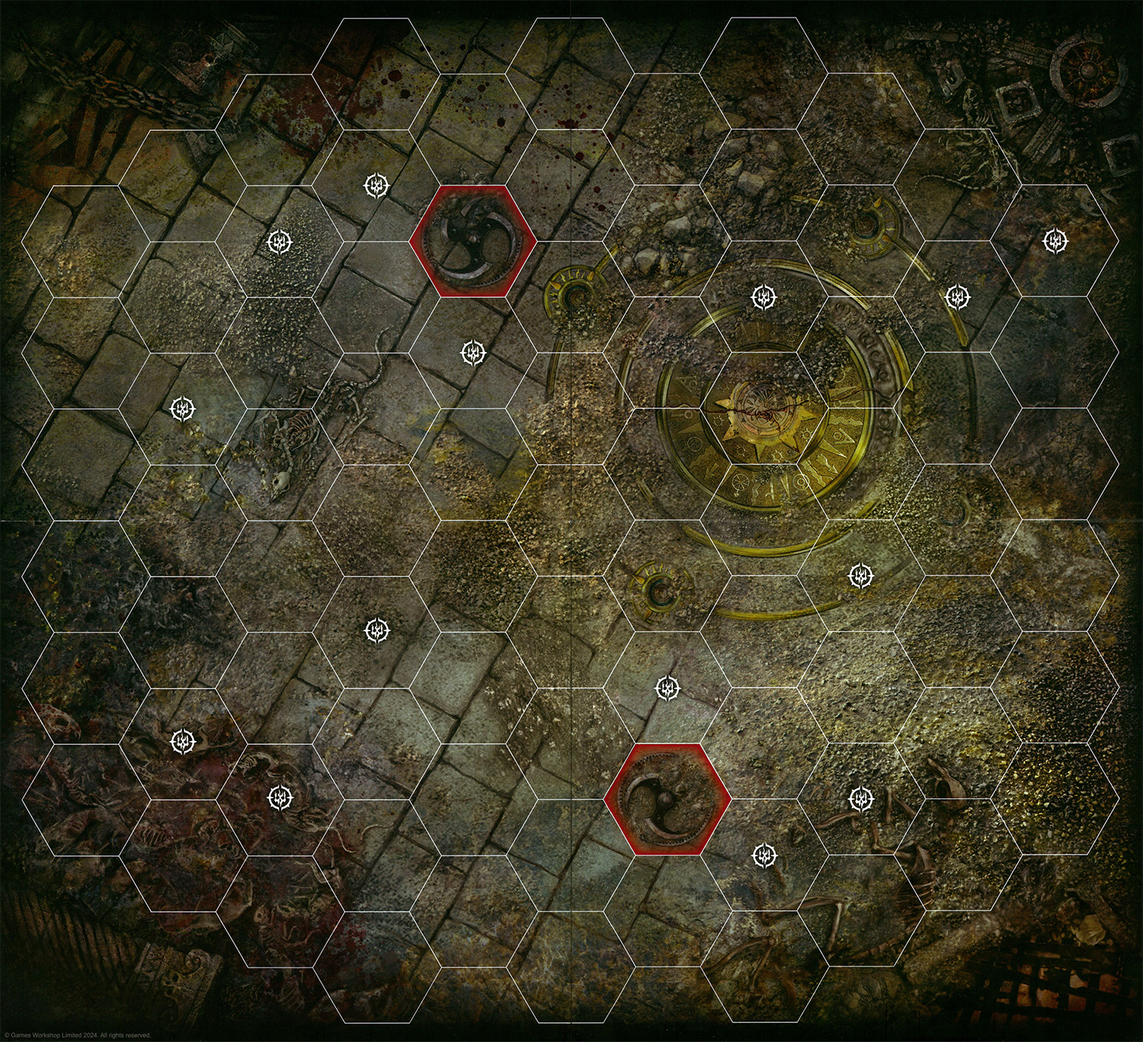
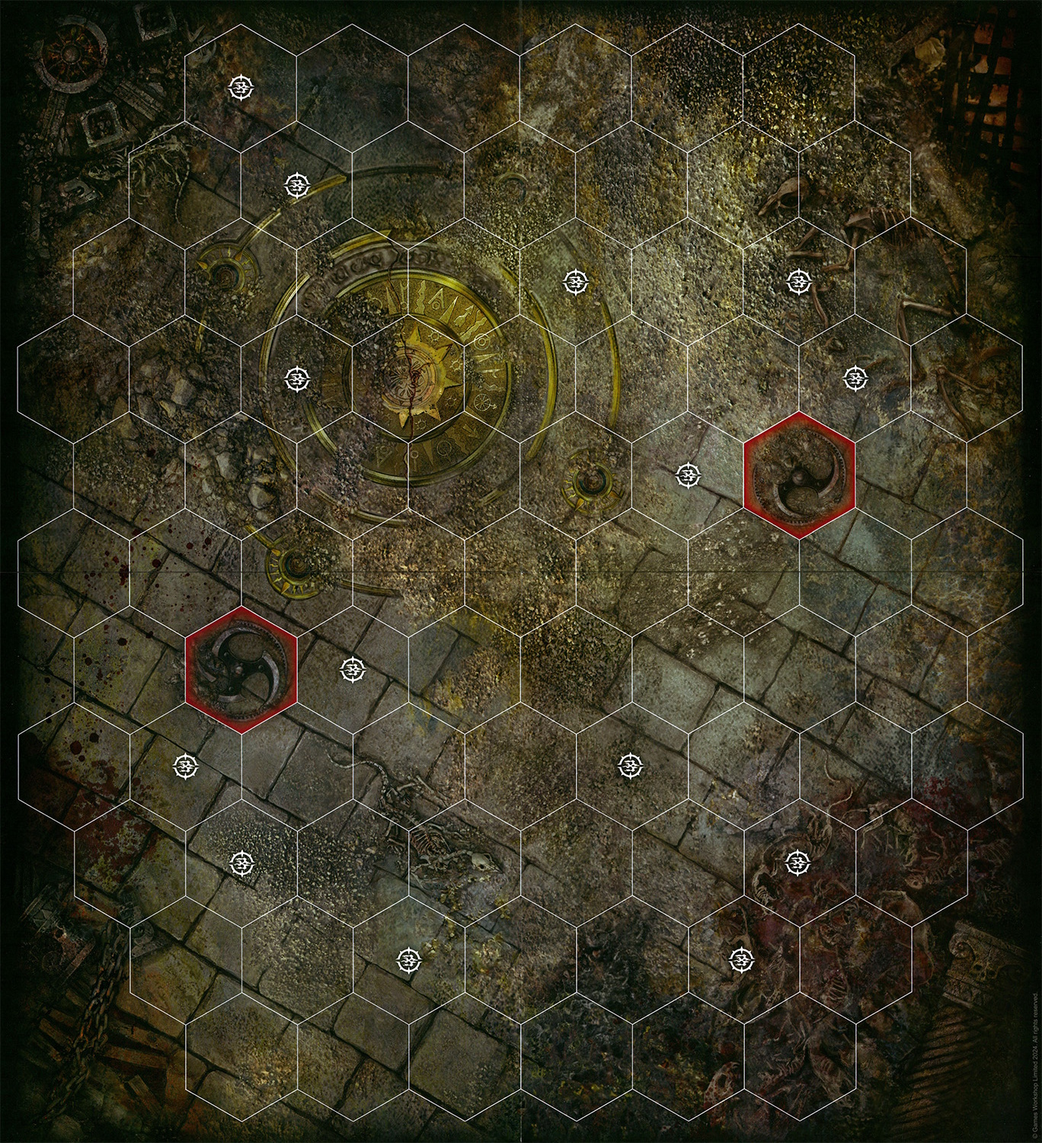
map background

diff --git a/public/debug-board-overlay.html b/public/debug-board-overlay.html
@@ -1,0 +1,59 @@
+<!DOCTYPE html>
+<html>
+<head>
+<title>Board Overlay Debug</title>
+<style>
+  body { margin: 0; background: #222; }
+  .container { position: relative; display: inline-block; }
+  .container img { display: block; }
+  .hex-dot {
+    position: absolute;
+    width: 20px;
+    height: 20px;
+    border-radius: 50%;
+    border: 2px solid lime;
+    background: rgba(0, 255, 0, 0.3);
+    transform: translate(-50%, -50%);
+    pointer-events: none;
+  }
+  .hex-dot.stagger { border-color: red; background: rgba(255,0,0,0.3); }
+  .hex-dot.starting { border-color: cyan; background: rgba(0,255,255,0.3); }
+  .hex-label {
+    position: absolute;
+    color: lime;
+    font: bold 10px monospace;
+    transform: translate(-50%, 14px);
+    pointer-events: none;
+    text-shadow: 0 0 3px black, 0 0 3px black;
+  }
+</style>
+</head>
+<body>
+<div class="container">
+  <img src="/embergard-board-1.jpg" id="boardImg" />
+</div>
+<script>
+const hexCenters = [{"id":"hex:r0:c0","cx":316,"cy":116.5},{"id":"hex:r0:c1","cx":462.2,"cy":116.5},{"id":"hex:r0:c2","cx":608.4,"cy":116.5},{"id":"hex:r0:c3","cx":754.7,"cy":116.5},{"id":"hex:r0:c4","cx":900.9,"cy":116.5},{"id":"hex:r0:c5","cx":1047.1,"cy":116.5},{"id":"hex:r1:c0","cx":242.9,"cy":243.4},{"id":"hex:r1:c1","cx":389.1,"cy":243.4},{"id":"hex:r1:c2","cx":535.3,"cy":243.4},{"id":"hex:r1:c3","cx":681.6,"cy":243.4},{"id":"hex:r1:c4","cx":827.8,"cy":243.4},{"id":"hex:r1:c5","cx":974,"cy":243.4},{"id":"hex:r1:c6","cx":1120.2,"cy":243.4},{"id":"hex:r2:c0","cx":169.8,"cy":370.4},{"id":"hex:r2:c1","cx":316,"cy":370.4},{"id":"hex:r2:c2","cx":462.2,"cy":370.4},{"id":"hex:r2:c3","cx":608.4,"cy":370.4},{"id":"hex:r2:c4","cx":754.7,"cy":370.4},{"id":"hex:r2:c5","cx":900.9,"cy":370.4},{"id":"hex:r2:c6","cx":1047.1,"cy":370.4},{"id":"hex:r2:c7","cx":1193.3,"cy":370.4},{"id":"hex:r3:c0","cx":96.7,"cy":497.3},{"id":"hex:r3:c1","cx":242.9,"cy":497.3},{"id":"hex:r3:c2","cx":389.1,"cy":497.3},{"id":"hex:r3:c3","cx":535.3,"cy":497.3},{"id":"hex:r3:c4","cx":681.6,"cy":497.3},{"id":"hex:r3:c5","cx":827.8,"cy":497.3},{"id":"hex:r3:c6","cx":974,"cy":497.3},{"id":"hex:r3:c7","cx":1120.2,"cy":497.3},{"id":"hex:r3:c8","cx":1266.4,"cy":497.3},{"id":"hex:r4:c0","cx":169.8,"cy":624.3},{"id":"hex:r4:c1","cx":316,"cy":624.3},{"id":"hex:r4:c2","cx":462.2,"cy":624.3},{"id":"hex:r4:c3","cx":608.4,"cy":624.3},{"id":"hex:r4:c4","cx":754.7,"cy":624.3},{"id":"hex:r4:c5","cx":900.9,"cy":624.3},{"id":"hex:r4:c6","cx":1047.1,"cy":624.3},{"id":"hex:r4:c7","cx":1193.3,"cy":624.3},{"id":"hex:r5:c0","cx":96.7,"cy":751.2},{"id":"hex:r5:c1","cx":242.9,"cy":751.2},{"id":"hex:r5:c2","cx":389.1,"cy":751.2},{"id":"hex:r5:c3","cx":535.3,"cy":751.2},{"id":"hex:r5:c4","cx":681.6,"cy":751.2},{"id":"hex:r5:c5","cx":827.8,"cy":751.2},{"id":"hex:r5:c6","cx":974,"cy":751.2},{"id":"hex:r5:c7","cx":1120.2,"cy":751.2},{"id":"hex:r5:c8","cx":1266.4,"cy":751.2},{"id":"hex:r6:c0","cx":169.8,"cy":878.2},{"id":"hex:r6:c1","cx":316,"cy":878.2},{"id":"hex:r6:c2","cx":462.2,"cy":878.2},{"id":"hex:r6:c3","cx":608.4,"cy":878.2},{"id":"hex:r6:c4","cx":754.7,"cy":878.2},{"id":"hex:r6:c5","cx":900.9,"cy":878.2},{"id":"hex:r6:c6","cx":1047.1,"cy":878.2},{"id":"hex:r6:c7","cx":1193.3,"cy":878.2},{"id":"hex:r7:c0","cx":96.7,"cy":1005.1},{"id":"hex:r7:c1","cx":242.9,"cy":1005.1},{"id":"hex:r7:c2","cx":389.1,"cy":1005.1},{"id":"hex:r7:c3","cx":535.3,"cy":1005.1},{"id":"hex:r7:c4","cx":681.6,"cy":1005.1},{"id":"hex:r7:c5","cx":827.8,"cy":1005.1},{"id":"hex:r7:c6","cx":974,"cy":1005.1},{"id":"hex:r7:c7","cx":1120.2,"cy":1005.1},{"id":"hex:r7:c8","cx":1266.4,"cy":1005.1},{"id":"hex:r8:c0","cx":169.8,"cy":1132.1},{"id":"hex:r8:c1","cx":316,"cy":1132.1},{"id":"hex:r8:c2","cx":462.2,"cy":1132.1},{"id":"hex:r8:c3","cx":608.4,"cy":1132.1},{"id":"hex:r8:c4","cx":754.7,"cy":1132.1},{"id":"hex:r8:c5","cx":900.9,"cy":1132.1},{"id":"hex:r8:c6","cx":1047.1,"cy":1132.1},{"id":"hex:r8:c7","cx":1193.3,"cy":1132.1},{"id":"hex:r9:c0","cx":242.9,"cy":1259},{"id":"hex:r9:c1","cx":389.1,"cy":1259},{"id":"hex:r9:c2","cx":535.3,"cy":1259},{"id":"hex:r9:c3","cx":681.6,"cy":1259},{"id":"hex:r9:c4","cx":827.8,"cy":1259},{"id":"hex:r9:c5","cx":974,"cy":1259},{"id":"hex:r9:c6","cx":1120.2,"cy":1259},{"id":"hex:r10:c0","cx":316,"cy":1385.9},{"id":"hex:r10:c1","cx":462.2,"cy":1385.9},{"id":"hex:r10:c2","cx":608.4,"cy":1385.9},{"id":"hex:r10:c3","cx":754.7,"cy":1385.9},{"id":"hex:r10:c4","cx":900.9,"cy":1385.9},{"id":"hex:r10:c5","cx":1047.1,"cy":1385.9}];
+
+const stagger = new Set(["hex:r4:c6", "hex:r6:c1"]);
+const starting = new Set(["hex:r0:c0","hex:r1:c1","hex:r2:c4","hex:r2:c6","hex:r3:c2","hex:r3:c7","hex:r4:c5","hex:r6:c2","hex:r7:c1","hex:r7:c5","hex:r8:c1","hex:r8:c6","hex:r9:c2","hex:r9:c5"]);
+
+const container = document.querySelector('.container');
+
+hexCenters.forEach(h => {
+  const dot = document.createElement('div');
+  dot.className = 'hex-dot' + (stagger.has(h.id) ? ' stagger' : '') + (starting.has(h.id) ? ' starting' : '');
+  dot.style.left = h.cx + 'px';
+  dot.style.top = h.cy + 'px';
+  container.appendChild(dot);
+
+  const label = document.createElement('div');
+  label.className = 'hex-label';
+  label.style.left = h.cx + 'px';
+  label.style.top = h.cy + 'px';
+  label.textContent = h.id.replace('hex:', '');
+  container.appendChild(label);
+});
+</script>
+</body>
+</html>

diff --git a/src/board/boardScene.ts b/src/board/boardScene.ts
@@ -8,6 +8,7 @@ import {
   type HexId,
 } from "../domain";
 import { LOCAL_PLAYER_ID } from "../localPlayer";
+import type { BoardTheme } from "./boardTheme";
 import {
   hexHeight as hexPixelHeight,
   hexWidth as hexPixelWidth,
@@ -180,6 +181,8 @@ export type BoardSceneModel = {
   viewport: BoardSceneViewport;
   hexes: readonly BoardSceneHex[];
   selectedFighterName: string | null;
+  backgroundImage: string | null;
+  backgroundImageStyle: { left: string; top: string; width: string; height: string } | null;
   statusBadge: BoardTurnHeaderModel;
   lastResolvedAction: BattlefieldResultFlash | null;
   resultFlash: BattlefieldResultFlash | null;
@@ -227,6 +230,7 @@ export type ProjectBoardSceneParams = {
   // row is empty. Used to lock the UI during AI turns so the user
   // doesn't accidentally play for the opponent.
   isInteractionEnabled: boolean;
+  boardTheme?: BoardTheme | null;
 };
 
 export function projectBoardScene(params: ProjectBoardSceneParams): BoardSceneModel {
@@ -620,6 +624,7 @@ export function projectBoardScene(params: ProjectBoardSceneParams): BoardSceneMo
     viewport,
     hexes,
     selectedFighterName,
+    ...computeBackgroundImage(params.boardTheme ?? null, positionedHexes),
     statusBadge: boardTurnHeader,
     lastResolvedAction,
     resultFlash,
@@ -629,6 +634,55 @@ export function projectBoardScene(params: ProjectBoardSceneParams): BoardSceneMo
       isPowerStep && powerOverlay.warscrollAbilities.length > 0,
     pendingPowerOptionKey,
     armedPathTone: armedPath?.tone ?? null,
+  };
+}
+
+// ---------------------------------------------------------------------------
+// Background image alignment. Computes the exact CSS to overlay a board
+// image so its hexes align with the grid hexes. The theme provides the
+// image's natural dimensions and the padding from image edges to the hex
+// grid edges (in image pixels). This function derives scale + offset from
+// the grid's own hex bounds.
+// ---------------------------------------------------------------------------
+
+function computeBackgroundImage(
+  theme: BoardTheme | null,
+  positionedHexes: readonly PositionedHex[],
+): Pick<BoardSceneModel, "backgroundImage" | "backgroundImageStyle"> {
+  if (theme === null || positionedHexes.length === 0) {
+    return { backgroundImage: null, backgroundImageStyle: null };
+  }
+
+  // Grid hex bounding box (in grid pixels).
+  const gridLeft = Math.min(...positionedHexes.map((h) => h.left));
+  const gridTop = Math.min(...positionedHexes.map((h) => h.top));
+  const gridRight = Math.max(...positionedHexes.map((h) => h.left + hexPixelWidth));
+  const gridBottom = Math.max(...positionedHexes.map((h) => h.top + hexPixelHeight));
+  const gridContentW = gridRight - gridLeft;
+  const gridContentH = gridBottom - gridTop;
+
+  // Image hex content area (in image pixels).
+  const pad = theme.imagePadding;
+  const imgContentW = theme.imageWidth - pad.left - pad.right;
+  const imgContentH = theme.imageHeight - pad.top - pad.bottom;
+
+  // Scale so image hex area matches grid hex area. Average both axes
+  // to handle tiny aspect-ratio differences from measurement imprecision.
+  const scale = (gridContentW / imgContentW + gridContentH / imgContentH) / 2;
+
+  const renderedW = theme.imageWidth * scale;
+  const renderedH = theme.imageHeight * scale;
+  const left = gridLeft - pad.left * scale;
+  const top = gridTop - pad.top * scale;
+
+  return {
+    backgroundImage: theme.backgroundImage,
+    backgroundImageStyle: {
+      left: `${left.toFixed(1)}px`,
+      top: `${top.toFixed(1)}px`,
+      width: `${renderedW.toFixed(1)}px`,
+      height: `${renderedH.toFixed(1)}px`,
+    },
   };
 }
 

diff --git a/src/domain/content/boards/CenteredBattlefield.ts b/src/domain/content/boards/CenteredBattlefield.ts
@@ -1,3 +1,4 @@
+import type { BoardTheme } from "../../../board/boardTheme";
 import { Board } from "../../state/Board";
 import { HexCell } from "../../state/HexCell";
 import { Territory } from "../../state/Territory";
@@ -8,26 +9,39 @@ const northTerritoryId = "territory:north";
 const southTerritoryId = "territory:south";
 
 const northStartingHexIds = new Set([
-  "hex:r0:c1",
-  "hex:r0:c4",
+  "hex:r0:c0",
   "hex:r1:c1",
-  "hex:r1:c3",
-  "hex:r1:c5",
-  "hex:r2:c2",
-  "hex:r2:c5",
+  "hex:r2:c4",
+  "hex:r2:c6",
+  "hex:r3:c2",
+  "hex:r3:c7",
+  "hex:r4:c5",
 ]);
 
 const southStartingHexIds = new Set([
-  "hex:r8:c2",
-  "hex:r8:c5",
-  "hex:r9:c1",
-  "hex:r9:c3",
+  "hex:r6:c2",
+  "hex:r7:c1",
+  "hex:r7:c5",
+  "hex:r8:c1",
+  "hex:r8:c6",
+  "hex:r9:c2",
   "hex:r9:c5",
-  "hex:r10:c1",
-  "hex:r10:c4",
+]);
+
+const staggerHexIds = new Set([
+  "hex:r4:c6",
+  "hex:r6:c1",
 ]);
 
 export const centeredBattlefield = createCenteredBattlefield();
+
+export const centeredBattlefieldTheme: BoardTheme = {
+  name: "Embergard Board 1",
+  backgroundImage: "/embergard-board-1.jpg",
+  imageWidth: 1368,
+  imageHeight: 1500,
+  imagePadding: { top: 32, right: 29, bottom: 30, left: 24 },
+};
 
 function createCenteredBattlefield(): Board {
   const hexes = createHexes();
@@ -67,11 +81,13 @@ function createRowHexes(rowIndex: number, rowSize: number): HexCell[] {
     const isStartingHex =
       northStartingHexIds.has(hexId) || southStartingHexIds.has(hexId);
 
+    const kind = staggerHexIds.has(hexId) ? HexKind.Stagger : HexKind.Empty;
+
     return new HexCell(
       hexId,
       q,
       axialRow,
-      HexKind.Empty,
+      kind,
       isStartingHex,
       false,
       territoryId,

diff --git a/src/PracticeBattlefieldApp.tsx b/src/PracticeBattlefieldApp.tsx
@@ -38,6 +38,7 @@ import {
   getFighterName,
 } from "./board/battlefieldFormatters";
 import BoardMap from "./board/BoardMap";
+import type { BoardTheme } from "./board/boardTheme";
 import { projectBoardScene, type BoardSceneHexClickIntent, type BoardSceneQuickAction } from "./board/boardScene";
 import DiceTray, { getDiceTrayModel } from "./board/DiceTray";
 import DebugPanel from "./DebugPanel";
@@ -83,12 +84,14 @@ type PracticeBattlefieldAppProps = {
   warband?: WarbandDefinition;
   deck?: DeckDefinition | null;
   game?: Game;
+  boardTheme?: BoardTheme | null;
 };
 
 export default function PracticeBattlefieldApp({
   warband,
   deck = null,
   game: providedGame,
+  boardTheme = null,
 }: PracticeBattlefieldAppProps = {}) {
   const [game, setGame] = useState<Game>(
     () => providedGame ?? createActionStepPracticeGame(warband, deck),
@@ -313,6 +316,7 @@ export default function PracticeBattlefieldApp({
     isSetupClickEnabled: false,
     hoveredChargeTargetId,
     isInteractionEnabled: isHumanTurn,
+    boardTheme: boardTheme,
   });
 
   // Map hex click intents (returned by the scene) into the existing

diff --git a/src/PracticeBattlefieldApp.css b/src/PracticeBattlefieldApp.css
@@ -1366,6 +1366,37 @@ body {
   position: relative;
 }
 
+.battlefield-board-map-bg {
+  position: absolute;
+  pointer-events: none;
+}
+
+.battlefield-board-map:has(.battlefield-board-map-bg) .battlefield-map-hex {
+  background: rgba(246, 240, 229, 0.25);
+  border-color: rgba(255, 255, 255, 0.35);
+  box-shadow: inset 0 0 0 1px rgba(255, 255, 255, 0.2), 0 4px 12px rgba(0, 0, 0, 0.15);
+}
+
+.battlefield-board-map:has(.battlefield-board-map-bg) .battlefield-map-hex-neutral {
+  background: rgba(228, 218, 201, 0.2);
+}
+
+.battlefield-board-map:has(.battlefield-board-map-bg) .battlefield-map-hex-player-one {
+  background: rgba(140, 180, 210, 0.25);
+}
+
+.battlefield-board-map:has(.battlefield-board-map-bg) .battlefield-map-hex-player-two {
+  background: rgba(210, 160, 120, 0.25);
+}
+
+.battlefield-board-map:has(.battlefield-board-map-bg) .battlefield-map-hex-unclaimed {
+  background: rgba(226, 220, 213, 0.2);
+}
+
+.battlefield-board-map:has(.battlefield-board-map-bg) .battlefield-map-hex-edge {
+  border-color: rgba(255, 255, 255, 0.45);
+}
+
 @keyframes battlefield-board-flash-enter {
   0% {
     opacity: 0;

diff --git a/src/App.tsx b/src/App.tsx
@@ -2,6 +2,7 @@ import { useState } from "react";
 import DeckSelectScreen from "./DeckSelectScreen";
 import { LOCAL_PLAYER_ID } from "./localPlayer";
 import PracticeBattlefieldApp from "./PracticeBattlefieldApp";
+import { centeredBattlefieldTheme } from "./domain/content/boards/CenteredBattlefield";
 import SetupApp from "./SetupApp";
 import WarbandSelectScreen from "./WarbandSelectScreen";
 import {
@@ -89,6 +90,7 @@ export default function App() {
       warband={selectedWarband}
       deck={deckSelection.deck}
       game={setupGame}
+      boardTheme={centeredBattlefieldTheme}
     />
   );
 }

diff --git a/src/board/BoardMap.tsx b/src/board/BoardMap.tsx
@@ -207,6 +207,15 @@ export default function BoardMap({
             transformOrigin: "top left",
           }}
         >
+          {scene.backgroundImage !== null && (
+            <img
+              src={scene.backgroundImage}
+              alt=""
+              aria-hidden="true"
+              className="battlefield-board-map-bg"
+              style={scene.backgroundImageStyle ?? undefined}
+            />
+          )}
           {hexes.map((hex) => (
             <HexCell
               key={hex.id}

diff --git a/src/board/boardTheme.ts b/src/board/boardTheme.ts
@@ -1,0 +1,14 @@
+export type BoardTheme = {
+  name: string;
+  backgroundImage: string;
+  /** Displayed image dimensions (after any EXIF rotation). */
+  imageWidth: number;
+  imageHeight: number;
+  /** Distance from image edges to the hex grid edges, in image pixels. */
+  imagePadding: {
+    top: number;
+    right: number;
+    bottom: number;
+    left: number;
+  };
+};
